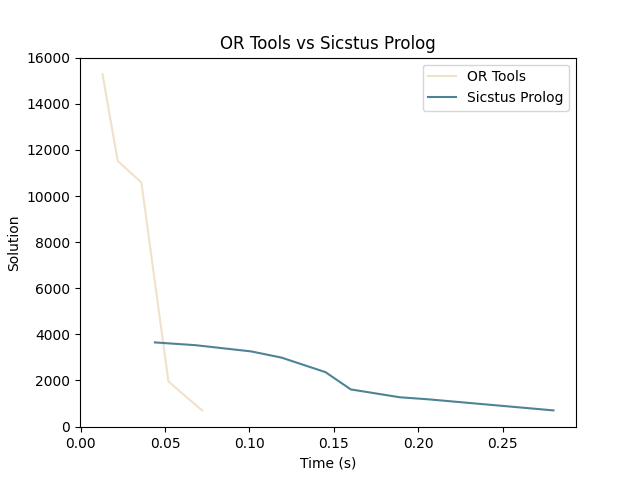
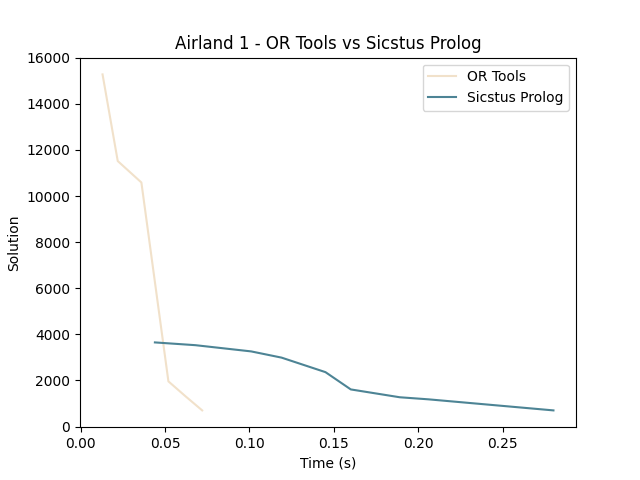
added new graphs

Changed region(s): [[0.2812, 0.0625, 0.75, 0.125]]

diff --git a/charts.py b/charts.py
@@ -1,5 +1,7 @@
 import matplotlib.pyplot as plt
 
+# Convergence - Airland 1
+
 # Data for OR tools - airland1
 x_a = [0.072, 0.062, 0.052, 0.036, 0.022, 0.013]
 y_a = [700, 1320, 1960, 10590, 11520, 15280]
@@ -13,12 +15,92 @@ plt.plot(x_b, y_b, color="#4d8495", label='Sicstus Prolog')
 
 plt.xlabel('Time (s)')
 plt.ylabel('Solution')
-plt.title('OR Tools vs Sicstus Prolog')
+plt.title('Airland 1 - OR Tools vs Sicstus Prolog')
 
 plt.legend()
 
 plt.show()
 
+
+
+# Convergence - Airland 2
+
+# Data for OR tools - airland2
+x_a = [0.364, 0.323, 0.284, 0.242, 0.188, 0.145, 0.13, 0.079, 0.0395, 0.0112]
+y_a = [1480, 1500, 1520, 1570, 1690, 1720, 1880, 35230, 64590, 70230]
+
+# Data for Sicstus Prolog - airland2
+x_b = [15.096, 12.084, 10.133, 5.101, 3.111, 0.597, 0.211, 0.206, 0.176, 0.127]
+y_b = [1480, 4200, 4230, 4230, 4380, 4380, 5400, 6720, 6720, 6750]
+
+plt.plot(x_a, y_a, color="#f1e1ca", label='OR Tools')
+plt.plot(x_b, y_b, color="#4d8495", label='Sicstus Prolog')
+
+plt.xlabel('Time (s)')
+plt.ylabel('Solution')
+plt.title('Airland 2 - OR Tools vs Sicstus Prolog')
+
+plt.legend()
+
+plt.show()
+
+
+
+# Convergence - Airland 3
+
+# Data for OR tools - airland3
+x_a = [0.097, 0.084, 0.064, 0.062, 0.042, 0.038, 0.03]
+y_a = [820, 7040, 6840, 8980, 44290, 71710, 74020]
+
+# Data for Sicstus Prolog - airland3
+x_b = [3.087, 1.81, 1.401, 1.002, 0.395, 0.217, 0.151]
+y_b = [820, 880, 940, 1000, 7840, 19820, 22530]
+
+plt.plot(x_a, y_a, color="#f1e1ca", label='OR Tools')
+plt.plot(x_b, y_b, color="#4d8495", label='Sicstus Prolog')
+
+plt.xlabel('Time (s)')
+plt.ylabel('Solution')
+plt.title('Airland 3 - OR Tools vs Sicstus Prolog')
+
+plt.legend()
+
+plt.show()
+
+
+
+# Convergence - Sicstus Prolog
+# Data for Sicstus Prolog - airland1
+x_a = [0.28, 0.206, 0.189, 0.16, 0.145, 0.119, 0.101, 0.068, 0.044]
+y_a = [700, 1180, 1270, 1610, 2360, 2990, 3260, 3530, 3650]
+
+# Data for Sicstus Prolog 
+x_b = [15.096, 12.084, 10.133, 5.101, 3.111, 0.597, 0.211, 0.206, 0.176, 0.127]
+y_b = [1480, 4200, 4230, 4230, 4380, 4380, 5400, 6720, 6720, 6750]
+
+# Data for Sicstus Prolog
+x_c = [3.087, 1.81, 1.401, 1.002, 0.395, 0.217, 0.151]
+y_c = [820, 880, 940, 1000, 7840, 19820, 22530]
+
+# Plotting the data
+plt.plot(x_a, y_a, color="#f1e1ca", label='Sicstus Prolog - Airland 1')
+plt.plot(x_b, y_b, color="#4d8495", label='Sicstus Prolog - Airland 2')
+plt.plot(x_c, y_c, color="#c060a1", label='Sicstus Prolog - Airland 3')
+
+plt.xlabel('Time (s)')
+plt.ylabel('Solution')
+plt.title('Sicstus Prolog')
+
+plt.legend()
+
+plt.show()
+
+
+
+# Convergence - OR Tools
+# Data for OR Tools - airland1
+x_a = [0.072, 0.062, 0.052, 0.036, 0.022, 0.013]
+y_a = [700, 1320, 1960, 10590, 11520, 15280]
 
 # Data for OR Tools - airland2
 x_b = [0.364, 0.323, 0.284, 0.242, 0.188, 0.145, 0.13, 0.079, 0.0395, 0.0112]
@@ -45,4 +127,3 @@ plt.title('OR Tools')
 plt.legend()
 
 plt.show()
-
